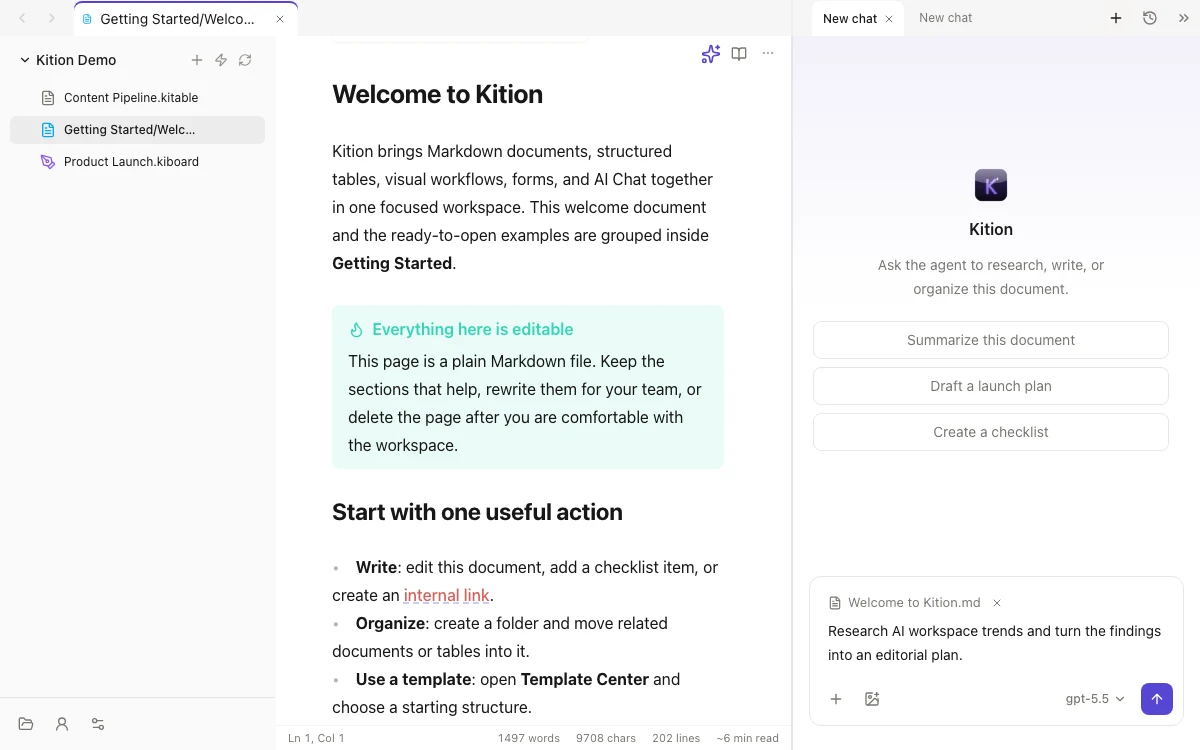
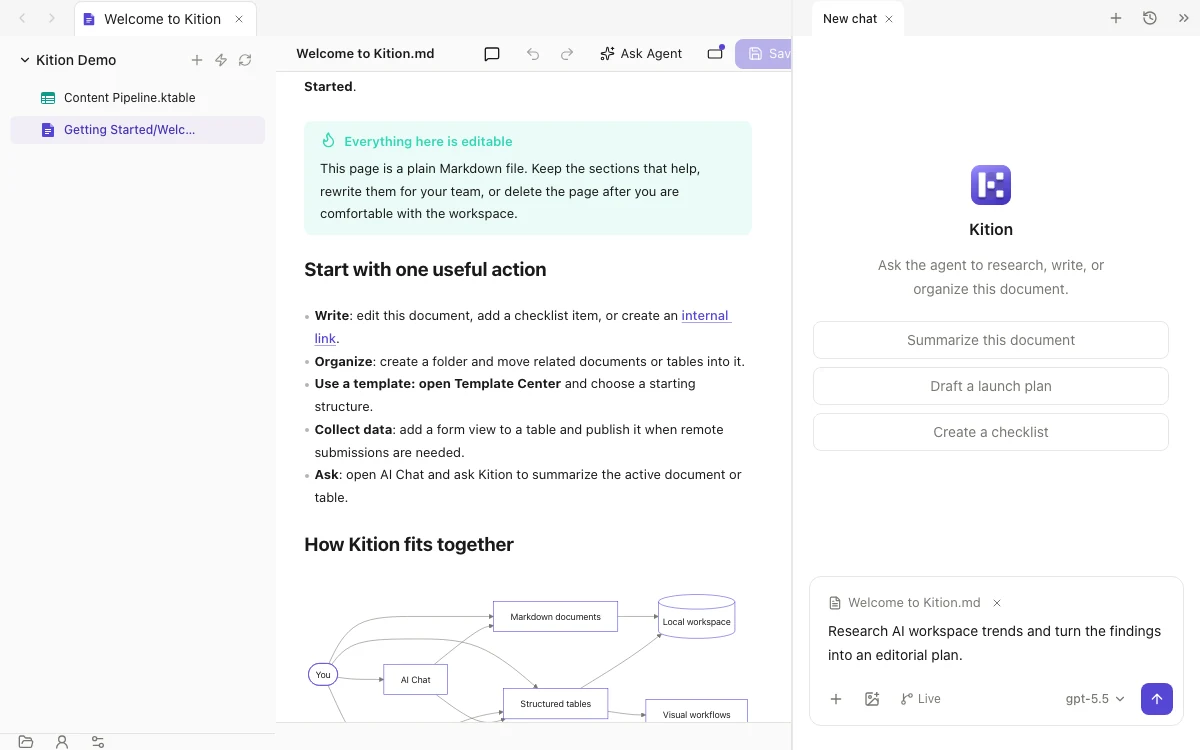
Drop the native editor's store meta; README capture opens the welcome note in the Note kit
- documentStore: every replica in the store is a kit's (KitReplicaMeta); the
  Markdown document's meta type (kit.document, fileHash, exported, style) and
  the generic meta parameter it needed are removed, with the fixtures that
  used it.
- readme-assets.spec.ts: the welcome note is read in the Note kit's frame
  (the kit's files served at /kit-files/), and AI Chat opens from the kit's
  Ask Agent button, since the floating launcher hides over a kit editor.
  documents.webp and agent.webp regenerated.

diff --git a/src/services/desktopClient/documentStore.ts b/src/services/desktopClient/documentStore.ts
@@ -8,7 +8,6 @@ import {
   type DocumentCheckpoint,
   type DocumentCheckpointInput,
   type DocumentIndexPayload,
-  type DocumentStoreMeta,
   type DocumentStorePayload,
   type DocumentStoreStatus,
   type DocumentStoreWriteRequest,
@@ -19,7 +18,7 @@ import {
 import { normalizeWorkspaceDocumentPath } from './workspaceDocuments'
 import { uint8ArrayToBase64 } from './workspaceFiles'
 
-export type { DocumentCheckpoint, DocumentCheckpointInput, DocumentStoreMeta, DocumentStoreStatus, DocumentStoreWritten, KitReplicaMeta } from './bridge'
+export type { DocumentCheckpoint, DocumentCheckpointInput, DocumentStoreStatus, DocumentStoreWritten, KitReplicaMeta } from './bridge'
 
 /** The error a guarded index write fails with when another writer changed the index since it was read. */
 export const DOCUMENT_INDEX_CONFLICT = 'DOCUMENT_INDEX_CONFLICT'
@@ -33,15 +32,12 @@ const browserIndexStorageKey = 'kition.workspace.document-store.index.v1'
 const browserEntryStoragePrefix = 'kition.workspace.document-store.entry.v1:'
 const DOCUMENT_ID_PATTERN = /^[A-Za-z0-9][A-Za-z0-9:_-]{0,127}$/
 
-type StoredMeta = DocumentStoreMeta | KitReplicaMeta
-
 /**
- * A Markdown document's entry, or with `KitReplicaMeta` a kit replica's; readers check the meta they get. A replica is
- * `snapshot` with `changes` imported in order; `seq` names the stored version a later append follows (absent from a
+ * A kit replica's entry. A replica is `snapshot` with `changes` imported in order; `seq` names the stored version a later append follows (absent from a
  * store that cannot append), and `complete` is false when the store lost a change or blob it named.
  */
-export type DocumentStoreEntry<M extends StoredMeta = DocumentStoreMeta> = {
-  meta: M
+export type DocumentStoreEntry = {
+  meta: KitReplicaMeta
   snapshot: Uint8Array
   changes?: Uint8Array[]
   blobs?: Uint8Array
@@ -60,8 +56,8 @@ export type DocumentStoreWriteOptions = DocumentStoreOptions & {
 }
 
 /** Changes since the stored `baseSeq`, to append. */
-export type DocumentStoreAppend<M extends StoredMeta = DocumentStoreMeta> = {
-  meta: M
+export type DocumentStoreAppend = {
+  meta: KitReplicaMeta
   changes: Uint8Array
   baseSeq: number
   blobs?: Uint8Array
@@ -100,7 +96,7 @@ function checkDocumentId(docId: string) {
   if (!isValidDocumentId(docId)) throw new Error('invalid document id')
 }
 
-function checkMeta(docId: string, meta: StoredMeta) {
+function checkMeta(docId: string, meta: KitReplicaMeta) {
   if (!meta || typeof meta !== 'object' || meta.docId !== docId) throw new Error('document store meta names another document')
 }
 
@@ -133,9 +129,9 @@ function base64ToBytes(text: string, what = 'snapshot'): Uint8Array {
   return bytes
 }
 
-function toEntry<M extends StoredMeta>(payload: DocumentStorePayload | null | undefined): DocumentStoreEntry<M> | null {
+function toEntry(payload: DocumentStorePayload | null | undefined): DocumentStoreEntry | null {
   if (!payload) return null
-  const entry: DocumentStoreEntry<M> = { meta: payload.meta as M, snapshot: base64ToBytes(payload.snapshot_base64) }
+  const entry: DocumentStoreEntry = { meta: payload.meta, snapshot: base64ToBytes(payload.snapshot_base64) }
   if (Array.isArray(payload.changes_base64)) entry.changes = payload.changes_base64.map((change) => base64ToBytes(change, 'changes'))
   if (typeof payload.blobs_base64 === 'string') entry.blobs = base64ToBytes(payload.blobs_base64, 'blobs')
   if (typeof payload.seq === 'number') entry.seq = payload.seq
@@ -263,16 +259,16 @@ function nextBrowserIndexVersion() {
 // --- API ----------------------------------------------------------------
 
 /** The stored replica of `docId`, or `null` when there is none (or it is damaged). */
-export async function readDocumentStore<M extends StoredMeta = DocumentStoreMeta>(docId: string, options?: DocumentStoreOptions): Promise<DocumentStoreEntry<M> | null> {
+export async function readDocumentStore(docId: string, options?: DocumentStoreOptions): Promise<DocumentStoreEntry | null> {
   checkDocumentId(docId)
   const bridge = getDesktopBridge()
   if (bridge?.ReadDocumentStore) {
-    return toEntry<M>(await bridge.ReadDocumentStore({ doc_id: docId, ...rootRequest(options) }))
+    return toEntry(await bridge.ReadDocumentStore({ doc_id: docId, ...rootRequest(options) }))
   }
   checkBrowserRoot(options)
   const stored = readBrowserEntry(docId)
   try {
-    return toEntry<M>(stored)
+    return toEntry(stored)
   } catch {
     return null
   }
@@ -298,7 +294,7 @@ async function sendWrite(docId: string, request: DocumentStoreWriteRequest, opti
  * meta, snapshot, and blobs land together or not at all. Answers the stored version, or `null` from a store that
  * cannot append.
  */
-export async function writeDocumentStore<M extends StoredMeta = DocumentStoreMeta>(docId: string, entry: DocumentStoreEntry<M>, options?: DocumentStoreWriteOptions): Promise<DocumentStoreWritten | null> {
+export async function writeDocumentStore(docId: string, entry: DocumentStoreEntry, options?: DocumentStoreWriteOptions): Promise<DocumentStoreWritten | null> {
   checkDocumentId(docId)
   checkMeta(docId, entry.meta)
   const request: DocumentStoreWriteRequest = { doc_id: docId, meta: entry.meta, snapshot_base64: uint8ArrayToBase64(entry.snapshot) }
@@ -314,9 +310,9 @@ export async function writeDocumentStore<M extends StoredMeta = DocumentStoreMet
  * `DOCUMENT_STORE_CONFLICT` (see `isDocumentStoreConflict`) when the store is elsewhere, and the caller then writes a
  * snapshot. `compact` in the answer asks for a snapshot next.
  */
-export async function appendDocumentStore<M extends StoredMeta = DocumentStoreMeta>(
+export async function appendDocumentStore(
   docId: string,
-  append: DocumentStoreAppend<M>,
+  append: DocumentStoreAppend,
   options?: DocumentStoreWriteOptions,
 ): Promise<DocumentStoreWritten> {
   checkDocumentId(docId)
@@ -331,17 +327,17 @@ export async function appendDocumentStore<M extends StoredMeta = DocumentStoreMe
 }
 
 /** The stored meta and version of `docId` without its bytes, or `null`. */
-export async function readDocumentStoreHead<M extends StoredMeta = DocumentStoreMeta>(docId: string, options?: DocumentStoreOptions): Promise<{ meta: M; seq: number | null; version: string | null } | null> {
+export async function readDocumentStoreHead(docId: string, options?: DocumentStoreOptions): Promise<{ meta: KitReplicaMeta; seq: number | null; version: string | null } | null> {
   checkDocumentId(docId)
   const bridge = getDesktopBridge()
   if (bridge?.ReadDocumentStore) {
     const head = await bridge.ReadDocumentStore({ doc_id: docId, head_only: true, ...rootRequest(options) })
     if (!head) return null
-    return { meta: head.meta as M, seq: typeof head.seq === 'number' ? head.seq : null, version: typeof head.version === 'string' ? head.version : null }
+    return { meta: head.meta, seq: typeof head.seq === 'number' ? head.seq : null, version: typeof head.version === 'string' ? head.version : null }
   }
   checkBrowserRoot(options)
   const stored = readBrowserEntry(docId)
-  return stored ? { meta: stored.meta as M, seq: stored.seq ?? 0, version: stored.version ?? null } : null
+  return stored ? { meta: stored.meta, seq: stored.seq ?? 0, version: stored.version ?? null } : null
 }
 
 /** The document's version history on this device, newest first. */

diff --git a/e2e/readme-assets.spec.ts b/e2e/readme-assets.spec.ts
@@ -163,23 +163,32 @@ test('captures README product screenshots from the onboarding source', async ({ 
 
   await mockLocalWorkspaceApi(page)
   await mockReadmeWorkspace(page)
-  await page.route('**/workspace-files/Getting%20Started/logo.png', async (route) => {
-    await route.fulfill({ body: LOGO_CONTENT, contentType: 'image/png' })
+  // The Note kit reads the welcome note and its logo through the file server.
+  const files: Record<string, Buffer> = { [WELCOME_PATH]: Buffer.from(WELCOME_CONTENT), 'Getting Started/logo.png': LOGO_CONTENT }
+  await page.route(/\/(workspace|kit)-files\//, async (route) => {
+    const relative = decodeURIComponent(/\/(?:workspace|kit)-files\/(.*)$/.exec(new URL(route.request().url()).pathname)?.[1] ?? '')
+    const body = files[relative]
+    if (!body) return route.fulfill({ status: 404, body: '' })
+    const headers = { etag: `"readme-${body.length}"`, 'access-control-expose-headers': 'ETag', 'content-type': relative.endsWith('.png') ? 'image/png' : 'application/octet-stream' }
+    if (route.request().method() === 'HEAD') return route.fulfill({ status: 200, headers, body: '' })
+    return route.fulfill({ status: 200, headers, body })
   })
   await page.emulateMedia({ colorScheme: 'dark' })
   await page.setViewportSize({ width: 1200, height: 750 })
   await page.goto('/documents')
 
-  await expect(page.getByTestId('document-editor')).toBeVisible()
-  await expect(page.getByText('Start with one useful action')).toBeVisible()
-  await page.locator('.document-editor .cm-scroller').evaluate((element) => {
+  // The welcome note opens in the Note kit's own editor, in a frame.
+  await expect(page.locator('[data-testid="kit-frame"][data-active="true"]')).toBeVisible()
+  const note = page.frameLocator('[data-testid="kit-frame"][data-active="true"] [data-testid="kit-frame-window"]')
+  await expect(note.locator('.cm-content')).toContainText('Start with one useful action')
+  await note.locator('.cm-scroller').evaluate((element) => {
     element.scrollTop = 380
   }).catch(() => {})
   await page.waitForTimeout(500)
   await page.screenshot({ path: 'docs/readme/documents.png' })
 
-  await page.getByRole('button', { name: 'Open AI Chat' }).click()
-  await page.getByRole('button', { name: 'New chat' }).click()
+  // A kit's editor has its own Ask Agent button, in place of the floating launcher.
+  await note.getByRole('button', { name: 'Ask Agent' }).click()
   const composer = page.getByPlaceholder('Plan, write, or ask anything…')
   await expect(composer).toBeVisible()
   await composer.fill('Research AI workspace trends and turn the findings into an editorial plan.')

diff --git a/src/services/desktopClient/documentStore.spec.ts b/src/services/desktopClient/documentStore.spec.ts
@@ -5,7 +5,6 @@ import {
   DOCUMENT_INDEX_CONFLICT,
   type DocumentIndex,
   type DocumentStoreEntry,
-  type DocumentStoreMeta,
   type KitReplicaMeta,
   deleteDocumentStore,
   isDocumentIndexConflict,
@@ -18,16 +17,8 @@ import {
 
 const DOC = '0199c2a4-7b3e-7cde-8f00-1234567890ab'
 
-function meta(docId: string = DOC, path = 'notes/a.md'): DocumentStoreMeta {
-  return {
-    docId,
-    kit: 'kit.document',
-    path,
-    fileHash: 'abc',
-    fileStamp: null,
-    exported: '00ff',
-    style: { eol: '\n', bom: false, finalNewline: true },
-  }
+function meta(docId: string = DOC, path = 'notes/a.md'): KitReplicaMeta {
+  return { docId, kit: 'kit.note', path, fileStamp: 'abc' }
 }
 
 function entry(bytes: number[], path?: string): DocumentStoreEntry {
@@ -129,7 +120,7 @@ describe('kit replicas in the document store', () => {
     window.kitionDesktop = bridge
     await writeDocumentStore(DOC, { meta: kitMeta, snapshot: new Uint8Array([1]), blobs: new Uint8Array([2, 3]) })
     expect(bridge.WriteDocumentStore).toHaveBeenCalledWith({ doc_id: DOC, meta: kitMeta, snapshot_base64: 'AQ==', blobs_base64: 'AgM=' })
-    const read = await readDocumentStore<KitReplicaMeta>(DOC)
+    const read = await readDocumentStore(DOC)
     expect(read?.meta.fileStamp).toBe('v1')
     expect(Array.from(read?.blobs || [])).toEqual([2, 3])
     bridge.ReadDocumentStore.mockResolvedValueOnce({ meta: kitMeta, snapshot_base64: 'AQ==', blobs_base64: '%%' })
@@ -138,7 +129,7 @@ describe('kit replicas in the document store', () => {
 
   it('keeps blobs in local storage, and none for an entry written without', async () => {
     await writeDocumentStore(DOC, { meta: kitMeta, snapshot: new Uint8Array([1]), blobs: new Uint8Array([2, 3]) })
-    expect(Array.from((await readDocumentStore<KitReplicaMeta>(DOC))?.blobs || [])).toEqual([2, 3])
+    expect(Array.from((await readDocumentStore(DOC))?.blobs || [])).toEqual([2, 3])
     await writeDocumentStore(DOC, entry([4]))
     expect((await readDocumentStore(DOC))?.blobs).toBeUndefined()
   })

diff --git a/src/features/kits/kition/kitionHost.ts b/src/features/kits/kition/kitionHost.ts
@@ -83,7 +83,7 @@ const appended = new Map<string, { docId: string; kitId: string; replica: Stored
 export async function readKitReplica(path: string, kitId: string): Promise<StoredReplica | null> {
   const docId = (await readDocumentIndex()).entries[path]
   if (!docId) return null
-  const entry = await readDocumentStore<KitReplicaMeta>(docId)
+  const entry = await readDocumentStore(docId)
   const meta = entry?.meta
   if (!entry?.blobs || meta?.kit !== kitId || meta.docId !== docId || typeof meta.fileStamp !== 'string') return null
   // A store that lost a change it named holds an older replica than the file: open the file plainly.
@@ -116,7 +116,7 @@ export async function writeKitReplica(path: string, kitId: string, replica: Stor
   try {
     const bytes = await loadReplicaBytes()
     replicaId = bytes.replicaIdOf(snapshot)
-    const head = await readDocumentStoreHead<KitReplicaMeta>(docId)
+    const head = await readDocumentStoreHead(docId)
     if (head && head.meta.kit === kitId && head.meta.replicaId) {
       if (head.meta.replicaId !== replicaId) {
         newLineage = true
@@ -157,7 +157,7 @@ export async function compactKitReplica(path: string): Promise<void> {
   if (!last) return
   appended.delete(path)
   try {
-    const head = await readDocumentStoreHead<KitReplicaMeta>(last.docId)
+    const head = await readDocumentStoreHead(last.docId)
     // Only what the store holds now: never a replica another save replaced meanwhile.
     if (!head || head.version !== last.version || head.meta.path !== path) return
     await writeDocumentStore(last.docId, { meta: head.meta, snapshot: new Uint8Array(last.replica.snapshot), blobs: new Uint8Array(last.replica.blobs) }, { version: last.version })

diff --git a/src/services/desktopClient/bridge.ts b/src/services/desktopClient/bridge.ts
@@ -206,19 +206,6 @@ export type WorkspaceDocumentWriteRequest = {
   content: string
 }
 
-/** What the renderer keeps about a Markdown document's private replica in `.kition/docs/<docId>/meta.json`. */
-export type DocumentStoreMeta = {
-  docId: string
-  kit: 'kit.document'
-  /** The workspace path of the `.md` file when the replica was last stored. */
-  path: string
-  fileHash: string
-  fileStamp: string | null
-  /** The KDM version (hex) last exported to the file. */
-  exported: string
-  style: { eol: string; bom: boolean; finalNewline: boolean }
-}
-
 /**
  * What the store keeps about a replica a kit editor keeps for its file (Kit UI protocol capability `replica`): the
  * stamp of the file it was saved with.
@@ -246,7 +233,7 @@ export type DocumentStoreRequest = {
  * `meta` and `snapshot_base64` (and `blobs_base64`).
  */
 export type DocumentStorePayload = {
-  meta: DocumentStoreMeta | KitReplicaMeta
+  meta: KitReplicaMeta
   snapshot_base64: string
   changes_base64?: string[]
   /** A kit replica's blob bundle. */
@@ -286,7 +273,7 @@ export type DocumentCheckpoint = {
  * `changes_base64` since the stored `base_seq`, which fails with `DOCUMENT_STORE_CONFLICT` when the store is not there.
  */
 export type DocumentStoreWriteRequest = Omit<DocumentStoreRequest, 'head_only'> & {
-  meta: DocumentStoreMeta | KitReplicaMeta
+  meta: KitReplicaMeta
   snapshot_base64?: string
   changes_base64?: string
   base_seq?: number

diff --git a/src/features/kits/kition/kitionHost.spec.ts b/src/features/kits/kition/kitionHost.spec.ts
@@ -74,11 +74,11 @@ describe('kit replicas in Kition', () => {
     expect(Array.from(new Uint8Array(renamed!.snapshot))).toEqual([9])
   })
 
-  it('takes no Markdown document’s entry for a kit replica', async () => {
+  it('takes no other kit’s entry for a kit replica', async () => {
     const { writeDocumentStore, writeDocumentIndex } = await import('@/services/desktop')
     await writeDocumentIndex({ 'notes/a.md': 'doc-1' }, null)
     await writeDocumentStore('doc-1', {
-      meta: { docId: 'doc-1', kit: 'kit.document', path: 'notes/a.md', fileHash: 'h', fileStamp: null, exported: '00', style: { eol: '\n', bom: false, finalNewline: true } },
+      meta: { docId: 'doc-1', kit: 'kit.note', path: 'notes/a.md', fileStamp: 'v1' },
       snapshot: new Uint8Array([1]),
     })
     await expect(readKitReplica('notes/a.md', 'kit.photo')).resolves.toBeNull()

diff --git a/src/features/workspace/hooks/useWorkspaceTreeNodeActions.documentIdentity.spec.ts b/src/features/workspace/hooks/useWorkspaceTreeNodeActions.documentIdentity.spec.ts
@@ -114,7 +114,7 @@ const errors = () => setError.mock.calls.map(([message]) => message).filter(Bool
 
 async function storeEntry(docId: string) {
   await desktop.writeDocumentStore(docId, {
-    meta: { docId, kit: 'kit.document', path: '', fileHash: '', fileStamp: null, exported: '', style: { eol: '\n', bom: false, finalNewline: true } },
+    meta: { docId, kit: 'kit.note', path: '', fileStamp: '' },
     snapshot: new Uint8Array([1]),
   })
 }

diff --git a/src-tauri/src/workspace/docstore/tests.rs b/src-tauri/src/workspace/docstore/tests.rs
@@ -13,15 +13,7 @@ fn workspace() -> (tempfile::TempDir, PathBuf) {
 }
 
 fn meta(doc_id: &str, path: &str) -> Value {
-    json!({
-        "docId": doc_id,
-        "kit": "kit.document",
-        "path": path,
-        "fileHash": "abc",
-        "fileStamp": null,
-        "exported": "00",
-        "style": { "eol": "\n", "bom": false, "finalNewline": true },
-    })
+    json!({ "docId": doc_id, "kit": "kit.note", "path": path, "fileStamp": "v1" })
 }
 
 const W: Access = Access::Writer;
